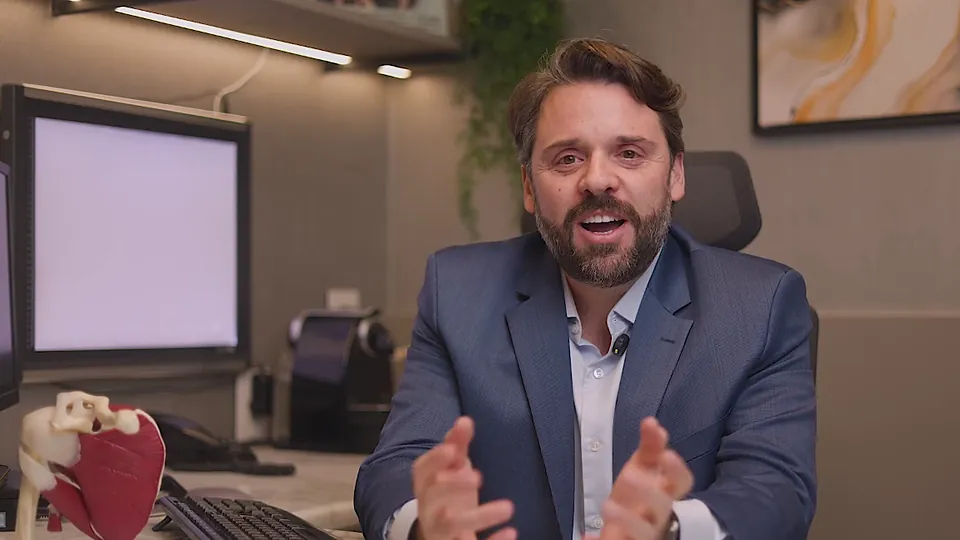
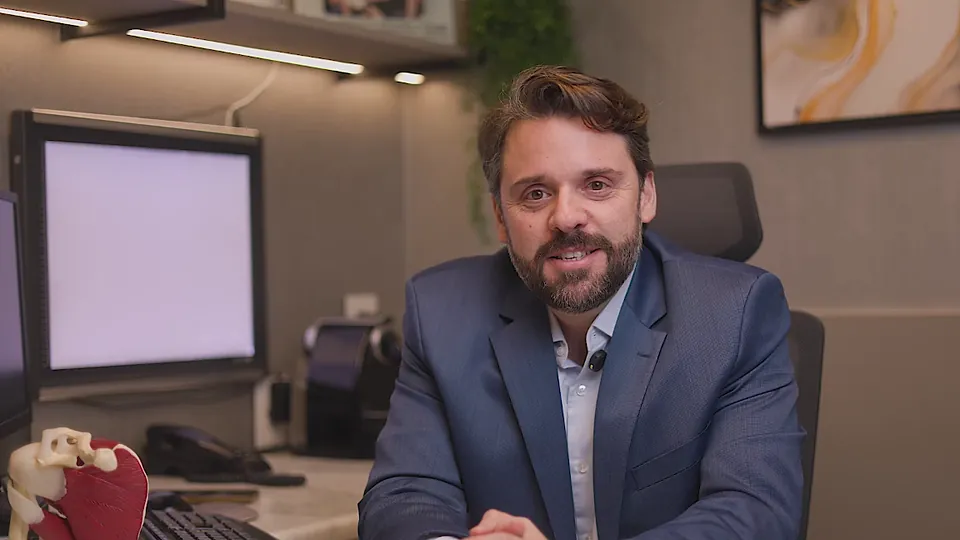
Troca as capas dos vídeos por quadros com expressões melhores
Dr. Caio sorrindo nos dois vídeos, Anita Maria sorrindo (28,8 s) e
Frederico com sorriso tranquilo (54 s). O play dos depoimentos desce para
não cobrir o rosto, e no celular a duração volta para a direita.

diff --git a/site/index.html b/site/index.html
@@ -38,7 +38,7 @@
   <link rel="preload" as="image" type="image/webp"
         imagesrcset="assets/img/dr-caio-rodrigo-inicial-520.webp 520w, assets/img/dr-caio-rodrigo-inicial-800.webp 800w, assets/img/dr-caio-rodrigo-inicial-1100.webp 1100w, assets/img/dr-caio-rodrigo-inicial-1500.webp 1500w"
         imagesizes="(min-width: 56em) 44vw, (min-width: 40em) 30rem, 92vw" fetchpriority="high">
-  <link rel="stylesheet" href="assets/css/styles.css?v=18">
+  <link rel="stylesheet" href="assets/css/styles.css?v=19">
   <script>document.documentElement.classList.add('js');</script>
 
   <!-- Dados estruturados (Google) -->
@@ -217,7 +217,7 @@
       <a class="brand" href="#inicio" aria-label="Dr. Caio Rodrigo, ortopedista de ombro e cotovelo. Voltar ao início">
         <picture>
           <source media="(max-width: 47.99em)" srcset="assets/logo/logo-horizontal-navy-4x.png?v=1">
-          <img src="assets/logo/logo-horizontal-navy.svg?v=3" alt="Dr. Caio Rodrigo, Ortopedista de Ombro e Cotovelo" width="232" height="38">
+          <img src="assets/logo/logo-horizontal-navy.svg?v=4" alt="Dr. Caio Rodrigo, Ortopedista de Ombro e Cotovelo" width="232" height="38">
         </picture>
       </a>
 
@@ -362,7 +362,7 @@
               </picture>
             </div>
             <div class="about__signature">
-              <img src="assets/logo/logo-icone-navy.svg?v=3" alt="" width="34" height="46">
+              <img src="assets/logo/logo-icone-navy.svg?v=4" alt="" width="34" height="46">
               <div>
                 <strong>Cirurgião de ombro e cotovelo</strong>
                 <span>Ortopedia e Traumatologia</span>
@@ -384,11 +384,11 @@
             <h3>Uma mensagem do Dr. Caio para você</h3>
             <p>Em pouco mais de um minuto, ele conta como trabalha e o que você pode esperar do tratamento.</p>
           </div>
-          <a class="video video--wide" href="assets/video/historia-dr-caio-rodrigo.mp4?v=3" data-src-small="assets/video/historia-dr-caio-rodrigo-360.mp4?v=3" data-video data-reveal="slide" style="--i:1"
+          <a class="video video--wide" href="assets/video/historia-dr-caio-rodrigo.mp4?v=4" data-src-small="assets/video/historia-dr-caio-rodrigo-360.mp4?v=4" data-video data-reveal="slide" style="--i:1"
              aria-label="Assistir ao vídeo de apresentação do Dr. Caio Rodrigo, 1 minuto e 18 segundos">
             <picture>
-              <source type="image/webp" srcset="assets/img/poster-historia-dr-caio-640.webp?v=3 640w, assets/img/poster-historia-dr-caio-960.webp?v=3 960w, assets/img/poster-historia-dr-caio-1280.webp?v=3 1280w" sizes="(min-width: 56em) 46rem, 92vw">
-              <img src="assets/img/poster-historia-dr-caio-960.jpg?v=3" width="1280" height="720" loading="lazy" decoding="async" alt="">
+              <source type="image/webp" srcset="assets/img/poster-historia-dr-caio-640.webp?v=4 640w, assets/img/poster-historia-dr-caio-960.webp?v=4 960w, assets/img/poster-historia-dr-caio-1280.webp?v=4 1280w" sizes="(min-width: 56em) 46rem, 92vw">
+              <img src="assets/img/poster-historia-dr-caio-960.jpg?v=4" width="1280" height="720" loading="lazy" decoding="async" alt="">
             </picture>
             <span class="video__title" aria-hidden="true"><span>Um pouco da</span><span>minha história</span></span>
             <span class="video__play" aria-hidden="true"><svg class="icon"><use href="#i-play"/></svg></span>
@@ -472,11 +472,11 @@
         <div class="treatments__grid">
           <article class="treatment treatment--feature" data-reveal="slide">
             <div class="treatment__media" data-parallax>
-              <a class="video" href="assets/video/artroscopia-do-ombro.mp4?v=3" data-src-small="assets/video/artroscopia-do-ombro-360.mp4?v=3" data-video
+              <a class="video" href="assets/video/artroscopia-do-ombro.mp4?v=4" data-src-small="assets/video/artroscopia-do-ombro-360.mp4?v=4" data-video
                  aria-label="Assistir ao vídeo do Dr. Caio sobre artroscopia do ombro, 34 segundos">
                 <picture>
-                  <source type="image/webp" srcset="assets/img/poster-artroscopia-640.webp?v=3 640w, assets/img/poster-artroscopia-960.webp?v=3 960w, assets/img/poster-artroscopia-1280.webp?v=3 1280w" sizes="(min-width: 64em) 44rem, 92vw">
-                  <img src="assets/img/poster-artroscopia-960.jpg?v=3" width="1280" height="720" loading="lazy" decoding="async"
+                  <source type="image/webp" srcset="assets/img/poster-artroscopia-640.webp?v=4 640w, assets/img/poster-artroscopia-960.webp?v=4 960w, assets/img/poster-artroscopia-1280.webp?v=4 1280w" sizes="(min-width: 64em) 44rem, 92vw">
+                  <img src="assets/img/poster-artroscopia-960.jpg?v=4" width="1280" height="720" loading="lazy" decoding="async"
                        alt="Dr. Caio Rodrigo em seu consultório explicando como funciona a artroscopia do ombro">
                 </picture>
                 <span class="video__title" aria-hidden="true"><span>Como funciona a</span><span>artroscopia</span></span>
@@ -618,11 +618,11 @@
         <div class="stories__videos">
           <div class="story" data-reveal="slide" style="--i:1">
             <figure>
-              <a class="video video--tall" href="assets/video/depoimento-anita-maria.mp4?v=3" data-video data-fullscreen-mobile
+              <a class="video video--tall" href="assets/video/depoimento-anita-maria.mp4?v=4" data-video data-fullscreen-mobile
                  aria-label="Assistir ao depoimento de Anita Maria Nascimento, 1 minuto e 29 segundos">
                 <picture>
-                  <source type="image/webp" srcset="assets/img/poster-depoimento-anita-maria-404.webp?v=3 404w, assets/img/poster-depoimento-anita-maria-540.webp?v=3 540w" sizes="(min-width: 64em) 17rem, 46vw">
-                  <img src="assets/img/poster-depoimento-anita-maria-540.jpg?v=3" width="540" height="960" loading="lazy" decoding="async" alt="">
+                  <source type="image/webp" srcset="assets/img/poster-depoimento-anita-maria-404.webp?v=4 404w, assets/img/poster-depoimento-anita-maria-540.webp?v=4 540w" sizes="(min-width: 64em) 17rem, 46vw">
+                  <img src="assets/img/poster-depoimento-anita-maria-540.jpg?v=4" width="540" height="960" loading="lazy" decoding="async" alt="">
                 </picture>
                 <span class="video__title" aria-hidden="true"><span>Depoimento</span><span>Anita Maria</span></span>
                 <span class="video__play" aria-hidden="true"><svg class="icon"><use href="#i-play"/></svg></span>
@@ -633,11 +633,11 @@
           </div>
           <div class="story" data-reveal="slide" style="--i:2">
             <figure>
-              <a class="video video--tall" href="assets/video/depoimento-frederico.mp4?v=3" data-video data-fullscreen-mobile
+              <a class="video video--tall" href="assets/video/depoimento-frederico.mp4?v=4" data-video data-fullscreen-mobile
                  aria-label="Assistir ao depoimento de Frederico Feitosa, 1 minuto e 27 segundos">
                 <picture>
-                  <source type="image/webp" srcset="assets/img/poster-depoimento-frederico-404.webp?v=3 404w, assets/img/poster-depoimento-frederico-540.webp?v=3 540w" sizes="(min-width: 64em) 17rem, 46vw">
-                  <img src="assets/img/poster-depoimento-frederico-540.jpg?v=3" width="540" height="960" loading="lazy" decoding="async" alt="">
+                  <source type="image/webp" srcset="assets/img/poster-depoimento-frederico-404.webp?v=4 404w, assets/img/poster-depoimento-frederico-540.webp?v=4 540w" sizes="(min-width: 64em) 17rem, 46vw">
+                  <img src="assets/img/poster-depoimento-frederico-540.jpg?v=4" width="540" height="960" loading="lazy" decoding="async" alt="">
                 </picture>
                 <span class="video__title" aria-hidden="true"><span>Depoimento</span><span>Frederico</span></span>
                 <span class="video__play" aria-hidden="true"><svg class="icon"><use href="#i-play"/></svg></span>
@@ -790,7 +790,7 @@
     <div class="container">
       <div class="footer__grid">
         <div class="footer__brand">
-          <img src="assets/logo/logo-vertical-creme.svg?v=3" alt="Dr. Caio Rodrigo, Ortopedista de Ombro e Cotovelo" width="220" height="82" loading="lazy">
+          <img src="assets/logo/logo-vertical-creme.svg?v=4" alt="Dr. Caio Rodrigo, Ortopedista de Ombro e Cotovelo" width="220" height="82" loading="lazy">
           <p>Médico ortopedista com atuação em cirurgia do ombro e do cotovelo em Brasília.</p>
         </div>
 

diff --git a/site/assets/css/styles.css b/site/assets/css/styles.css
@@ -870,12 +870,14 @@ html.menu-open { overflow: hidden; }
   transition: transform var(--dur) var(--ease-out), background-color var(--dur) var(--ease-out);
 }
 .video__play .icon { width: 34%; height: 34%; margin-left: 7%; }
-.video--tall .video__play { top: 60%; width: clamp(2.75rem, 21cqi, 6rem); height: clamp(2.75rem, 21cqi, 6rem); border-width: 2.5px; }
+.video--tall .video__title { bottom: 11%; }
+.video--tall .video__play { top: 66%; width: clamp(2.75rem, 21cqi, 6rem); height: clamp(2.75rem, 21cqi, 6rem); border-width: 2.5px; }
 /* Cartões estreitos (dois lado a lado no celular): fica só a duração no rodapé */
 @container (max-width: 14rem) {
-  .video__label { justify-content: flex-end; }
+  .video .video__label { justify-content: flex-end; }
   .video__label > span { display: none; }
-  .video--tall .video__title { bottom: 12%; }
+  .video--tall .video__title { bottom: 10%; }
+  .video--tall .video__play { top: 61%; }
 }
 .video--wide .video__play,
 .treatment__media .video__play { left: 41%; top: 47%; }
